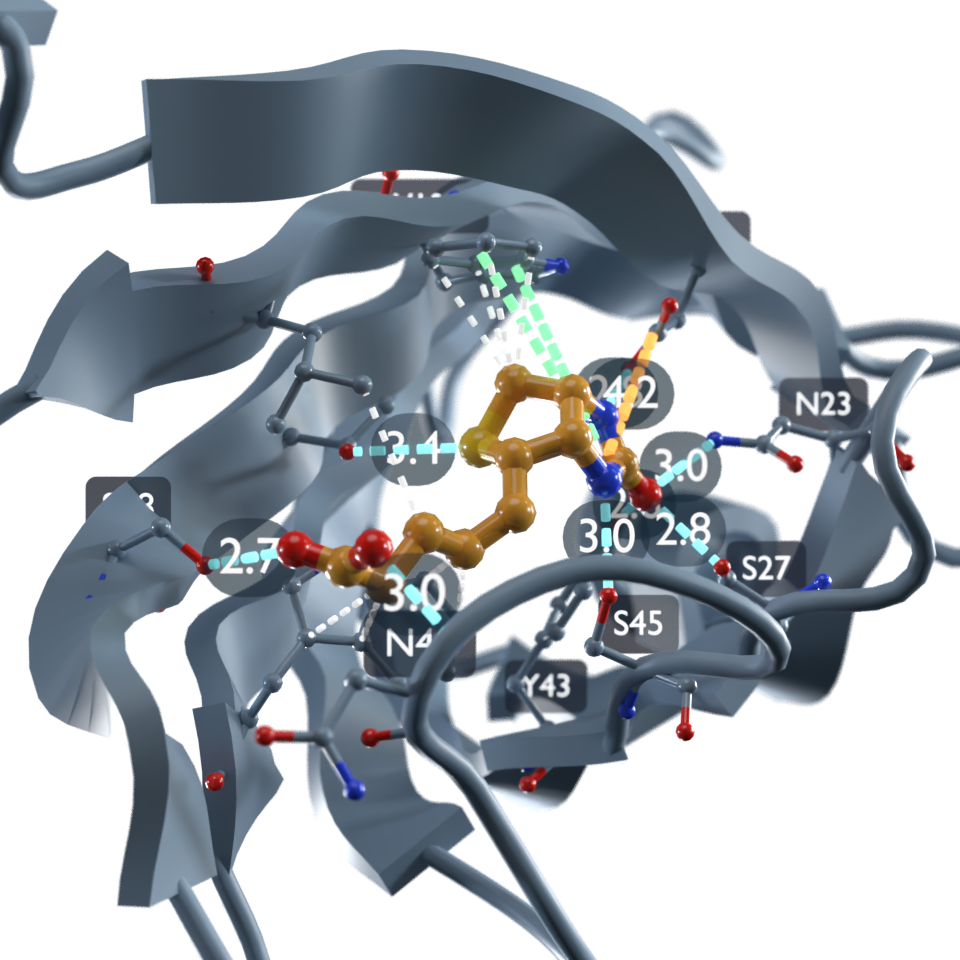
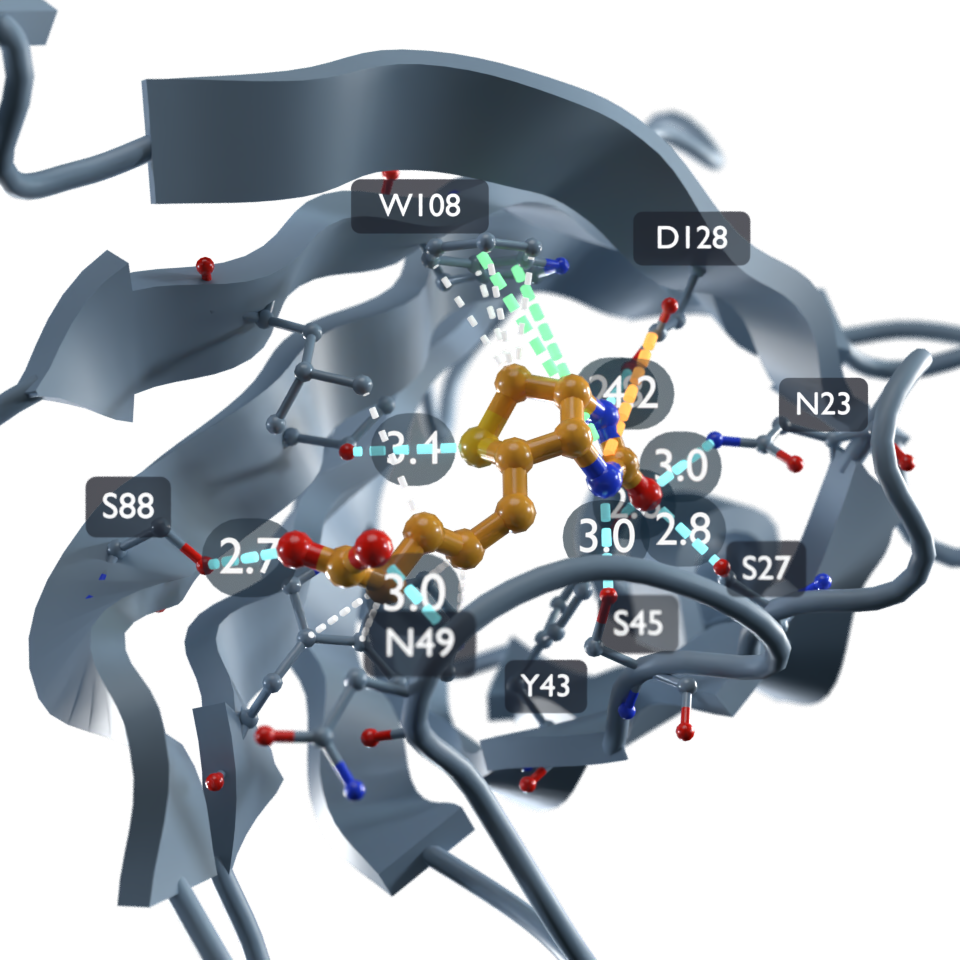
Move labels in front of whatever hides them
A label offset by a scalar moved along world +Z, which has nothing to do with
where the camera is or where the protein surface is, so a label on a pocket
residue sat inside the ribbon. Four of the eight in the binding-site figure
were partly or wholly hidden.

Each label now casts rays from the camera and sits `offset` in front of the
nearest thing they hit. Three things this needed that one ray does not give:

* A grid over the label, not just its centre. A ribbon crossing the middle of
  a card passes between four corner rays and leaves the label buried with its
  corners in clear air.
* No "that hit is probably its own atom" guard. I wrote one, and it was
  exactly what kept N49 behind the ribbon: when the occluder is nearer than
  the clearance, skipping the move leaves the label buried. A label belongs in
  front of the nearest surface regardless of what that surface is.
* Scaling by how far it moved. Sliding a label along the ray it is already on
  leaves it in the same place on screen but nearer the camera, so it is drawn
  bigger; without the correction the moved labels swelled and ran off the
  frame edge.

View dependent, so the binding-site vignette now labels after framing rather
than before — it was labelling against the camera publication_setup left
behind, not the one the figure is shot with. `avoid_occlusion=False` turns it
off for an orbit, where no one position is in front for every frame.
[…]

diff --git a/blender_gala/annotate/labels.py b/blender_gala/annotate/labels.py
@@ -49,6 +49,107 @@ def _require_bpy() -> Any:
     return bpy
 
 
+def _clear_of_occluders(
+    position: np.ndarray,
+    clearance: float,
+    extent: float = 0.0,
+    scene: Any = None,
+) -> tuple[np.ndarray, float]:
+    """Move a label towards the camera until nothing is in front of it.
+
+    A label anchored on an atom inside a protein is behind that protein from
+    almost every angle, and a fixed offset does not help: the direction that
+    clears the geometry depends on where the camera is. So the ray from the
+    camera to the anchor is cast, and if anything is hit on the way the label
+    moves to ``clearance`` in front of it.
+
+    View dependent, deliberately. For a still it does what the eye wants; for
+    an orbit, pass ``avoid_occlusion=False`` and place the labels yourself,
+    since no single position is in front from every frame.
+
+    Parameters
+    ----------
+    position : numpy.ndarray
+        Where the label would go.
+    clearance : float
+        How far in front of the occluder to sit, in Blender units.
+    extent : float, optional
+        Half the size of the label. A label is a card, not a point, so its
+        corners are tested as well as its centre — testing the centre alone
+        leaves a label whose middle happens to see through a gap with its
+        edges still buried.
+    scene : bpy.types.Scene, optional
+        Scene to cast in. Defaults to the active one.
+
+    Returns
+    -------
+    tuple of (numpy.ndarray, float)
+        Where to put the label, and what to multiply its size by. Moving a
+        label along the ray it is already on leaves it at the same place on
+        screen, but nearer the camera, so it is drawn bigger — the factor
+        cancels that out, and the move becomes invisible except for the
+        occluder it escaped. Unchanged and 1.0 when there is no camera or
+        nothing in the way.
+    """
+    bpy_mod = _require_bpy()
+    scene = scene or bpy_mod.context.scene
+    camera = getattr(scene, "camera", None)
+    if camera is None:
+        return position, 1.0
+
+    origin = np.array(camera.matrix_world.translation, dtype=float)
+    delta = np.asarray(position, dtype=float) - origin
+    distance = float(np.linalg.norm(delta))
+    if distance <= 1e-9:
+        return position, 1.0
+    direction = delta / distance
+
+    # The label's own plane, to spread the samples over: it faces the camera,
+    # so its axes are the camera's.
+    right = np.cross(direction, np.array([0.0, 0.0, 1.0], dtype=float))
+    if np.linalg.norm(right) < 1e-6:
+        right = np.array([1.0, 0.0, 0.0], dtype=float)
+    right /= np.linalg.norm(right)
+    up = np.cross(right, direction)
+
+    # A three by three grid over the card, not just its corners: a ribbon
+    # crossing the middle of a label passes between four corner rays and
+    # leaves the label buried with its corners in clear air.
+    samples = [np.asarray(position, dtype=float)]
+    if extent > 0.0:
+        samples += [
+            position + right * sx * extent + up * sy * extent
+            for sx in (-1.0, 0.0, 1.0)
+            for sy in (-1.0, 0.0, 1.0)
+            if (sx, sy) != (0.0, 0.0)
+        ]
+
+    depsgraph = bpy_mod.context.evaluated_depsgraph_get()
+    blocked_at = distance
+    for sample in samples:
+        towards = np.asarray(sample, dtype=float) - origin
+        reach = float(np.linalg.norm(towards))
+        if reach <= 1e-9:
+            continue
+        hit, location, *_ = scene.ray_cast(
+            depsgraph,
+            origin=origin,
+            direction=towards / reach,
+            distance=reach,
+        )
+        if hit:
+            blocked_at = min(
+                blocked_at,
+                float(np.linalg.norm(np.array(location, dtype=float) - origin)),
+            )
+    moved_to = max(blocked_at - clearance, 1e-4)
+    if moved_to >= distance:
+        # Nothing between the camera and the label that it is not already in
+        # front of.
+        return position, 1.0
+    return origin + direction * moved_to, moved_to / distance
+
+
 def label(
     target: Any,
     selection: Any = "all",
@@ -59,6 +160,7 @@ def label(
     style: str = "text",
     size: float = 2.0,
     offset: Sequence[float] | float = 2.0,
+    avoid_occlusion: bool = True,
     colour: tuple[float, float, float] = (0.95, 0.95, 0.95),
     card_colour: tuple[float, float, float, float] = (0.05, 0.05, 0.08, 0.75),
     billboard: bool = True,
@@ -92,6 +194,11 @@ def label(
         over a busy molecular surface.
     size : float, optional
         Text size in ångström.
+    avoid_occlusion : bool, optional
+        Move each label towards the camera until nothing is in front of it.
+        A label on an atom inside a protein is otherwise hidden by that
+        protein, and which way clears it depends on where the camera is.
+        View dependent: turn it off for an orbit.
     offset : sequence of float or float, optional
         Offset from the anchor in ångström. A scalar lifts the label along
         ``+Z``; a 3-sequence offsets in all axes.
@@ -152,13 +259,21 @@ def label(
         name="GALA Label Text",
     )
 
+    clearance = float(np.linalg.norm(offset_vector)) or 2.0 * scale
+
     created: list[Any] = []
     for body, position in entries:
+        placed = np.asarray(position) + offset_vector
+        magnification = 1.0
+        if avoid_occlusion:
+            placed, magnification = _clear_of_occluders(
+                placed, clearance, extent=0.7 * size * scale * len(body) ** 0.5
+            )
         obj = geometry.make_text(
             f"GALA Label {body}",
             body,
-            np.asarray(position) + offset_vector,
-            size=size * scale,
+            placed,
+            size=size * scale * magnification,
             material=text_material,
             extrude=extrude * scale,
             collection=gala_collections.LABELS,

diff --git a/vignettes/02_binding_site.py b/vignettes/02_binding_site.py
@@ -186,32 +186,7 @@ gala.draw_interactions(
 
 
 # ---------------------------------------------------------------------------
-heading("5. Label the pocket")
-# ---------------------------------------------------------------------------
-# Only the residues in closest contact, and sized for the close-up below
-# rather than for the whole protein. Naming all sixteen pocket residues at this
-# range stacks the cards on top of each other and on the site they describe.
-CLOSEST = f"byres (protein within 3.4 of ({LIGAND}))"
-
-labels = gala.label(
-    mol,
-    CLOSEST,
-    template="{one}{resi}",
-    level="residue",
-    anchor="ca",
-    style="card",  # a translucent plane keeps text legible over the surface
-    size=0.9,
-    offset=2.0,
-    billboard=True,
-)
-print(f"  labelled {len([o for o in labels if o.type == 'FONT'])} residues")
-
-# A caption that can never be occluded, drawn in screen space.
-gala.label_hud(mol, "Ligand binding site", location=(0.04, 0.95), size=28)
-
-
-# ---------------------------------------------------------------------------
-heading("6. Frame the site rather than the whole protein")
+heading("5. Frame the site rather than the whole protein")
 # ---------------------------------------------------------------------------
 # Frame the pocket, not the protein: the rest stays in the scene and is simply
 # allowed out of shot. Framing `mol` here — which this used to do, despite the
@@ -245,6 +220,35 @@ gala.frame_target(mol, selection=LIGAND, viewpoint=viewpoint, margin=2.6)
 # centroid, several angstrom behind the site, and at this aperture that is the
 # difference between a sharp ligand and a blurred one.
 gala.depth_of_field(mol, selection=LIGAND, fstop=11.0)
+
+
+# ---------------------------------------------------------------------------
+heading("6. Label the pocket")
+# ---------------------------------------------------------------------------
+# After the framing, not before it: a label is moved towards the camera
+# until nothing is in front of it, so it has to know where the camera
+# finally ended up.
+#
+# Only the residues in closest contact, and sized for the close-up
+# rather than for the whole protein. Naming all sixteen pocket residues at this
+# range stacks the cards on top of each other and on the site they describe.
+CLOSEST = f"byres (protein within 3.4 of ({LIGAND}))"
+
+labels = gala.label(
+    mol,
+    CLOSEST,
+    template="{one}{resi}",
+    level="residue",
+    anchor="ca",
+    style="card",  # a translucent plane keeps text legible over the surface
+    size=0.9,
+    offset=2.0,
+    billboard=True,
+)
+print(f"  labelled {len([o for o in labels if o.type == 'FONT'])} residues")
+
+# A caption that can never be occluded, drawn in screen space.
+gala.label_hud(mol, "Ligand binding site", location=(0.04, 0.95), size=28)
 
 
 # ---------------------------------------------------------------------------

diff --git a/tests/test_blender_integration.py b/tests/test_blender_integration.py
@@ -350,6 +350,64 @@ def test_label_one_per_residue(site_molecule):
 
 
 @requires_mn
+def test_labels_move_in_front_of_what_hides_them(site_molecule):
+    """A label on a buried atom is behind the protein from almost every angle.
+
+    Which direction clears it depends on where the camera is, so a fixed
+    offset cannot do it — the ribbon that hides a pocket residue is in a
+    different place for every viewpoint.
+    """
+    import bpy
+
+    from blender_gala.annotate import labels
+    from blender_gala.core.entity import AtomStructure
+    from blender_gala.scene import camera as gala_camera
+
+    structure = AtomStructure.from_any(site_molecule)
+    obj = gala_camera.frame_target(structure, viewpoint="front")
+    origin = np.array(obj.matrix_world.translation)
+    centre, _ = structure.bounding_sphere()
+
+    # A wall across the view, halfway to the molecule.
+    towards = centre - origin
+    midpoint = origin + towards * 0.5
+    forward = towards / np.linalg.norm(towards)
+    right = np.cross(forward, (0.0, 0.0, 1.0))
+    right /= np.linalg.norm(right)
+    up = np.cross(right, forward)
+    mesh = bpy.data.meshes.new("wall")
+    mesh.from_pydata(
+        [
+            (midpoint + right * sx + up * sy).tolist()
+            for sx, sy in ((-9, -9), (9, -9), (9, 9), (-9, 9))
+        ],
+        [],
+        [(0, 1, 2, 3)],
+    )
+    mesh.update()
+    wall = bpy.data.objects.new("wall", mesh)
+    bpy.context.scene.collection.objects.link(wall)
+    bpy.context.view_layer.update()
+
+    wall_distance = float(np.linalg.norm(midpoint - origin))
+
+    (hidden,) = labels.label(
+        site_molecule, "resi 1", level="selection", avoid_occlusion=False
+    )
+    assert np.linalg.norm(np.array(hidden.location) - origin) > wall_distance, (
+        "the label should start out behind the wall"
+    )
+
+    (lifted,) = labels.label(site_molecule, "resi 1", level="selection")
+    assert np.linalg.norm(np.array(lifted.location) - origin) < wall_distance, (
+        "the label should have moved in front of the wall"
+    )
+    assert lifted.data.size < hidden.data.size, (
+        "and been scaled down, so moving it closer does not enlarge it"
+    )
+
+
+@requires_mn
 def test_label_one_per_atom(site_molecule):
     from blender_gala.annotate import labels
 

diff --git a/docs/guide/measurement.md b/docs/guide/measurement.md
@@ -126,6 +126,14 @@ gala.label_atoms(mol, "resn ZN", template="{elem}")
 label legible over a busy molecular surface. The card is parented to the text
 and billboards with it.
 
+Labels are moved towards the camera until nothing is in front of them, and
+scaled down by as much as they moved so that the shift does not enlarge them.
+A label anchored on a residue inside a protein is otherwise behind that
+protein from almost every angle, and no fixed offset fixes it: the direction
+that clears the ribbon depends on where the camera is. Which is also why
+labelling comes *after* framing — pass `avoid_occlusion=False` for an orbit,
+where no one position is in front for every frame.
+
 Distances and measured values get a translucent pill behind them for the same
 reason, in a cooler tint and a different outline from the residue cards, so the
 two kinds of label are distinguishable at a glance. Pass `label_card=False` to
